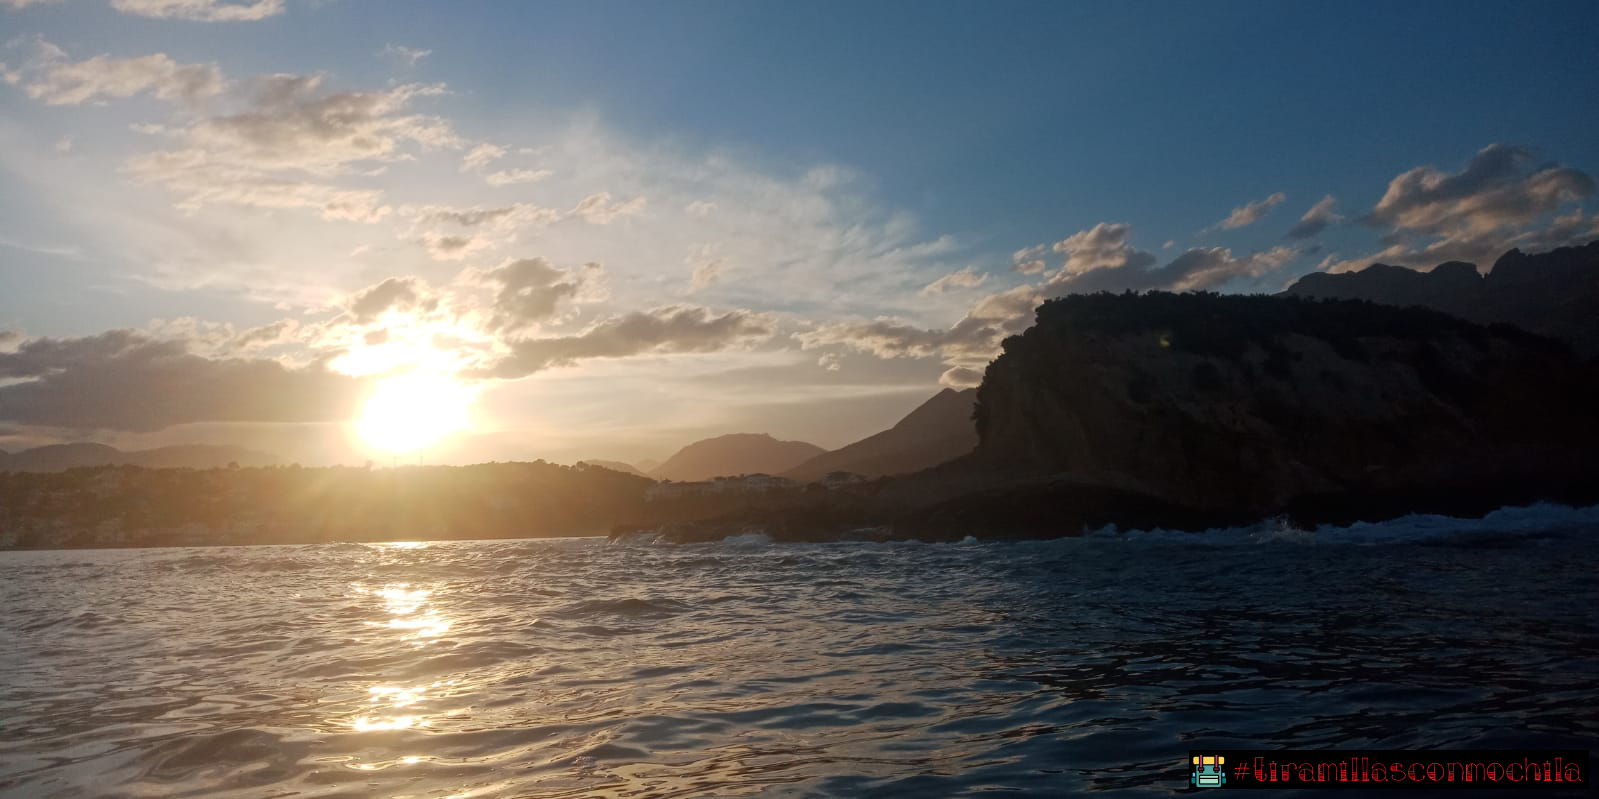
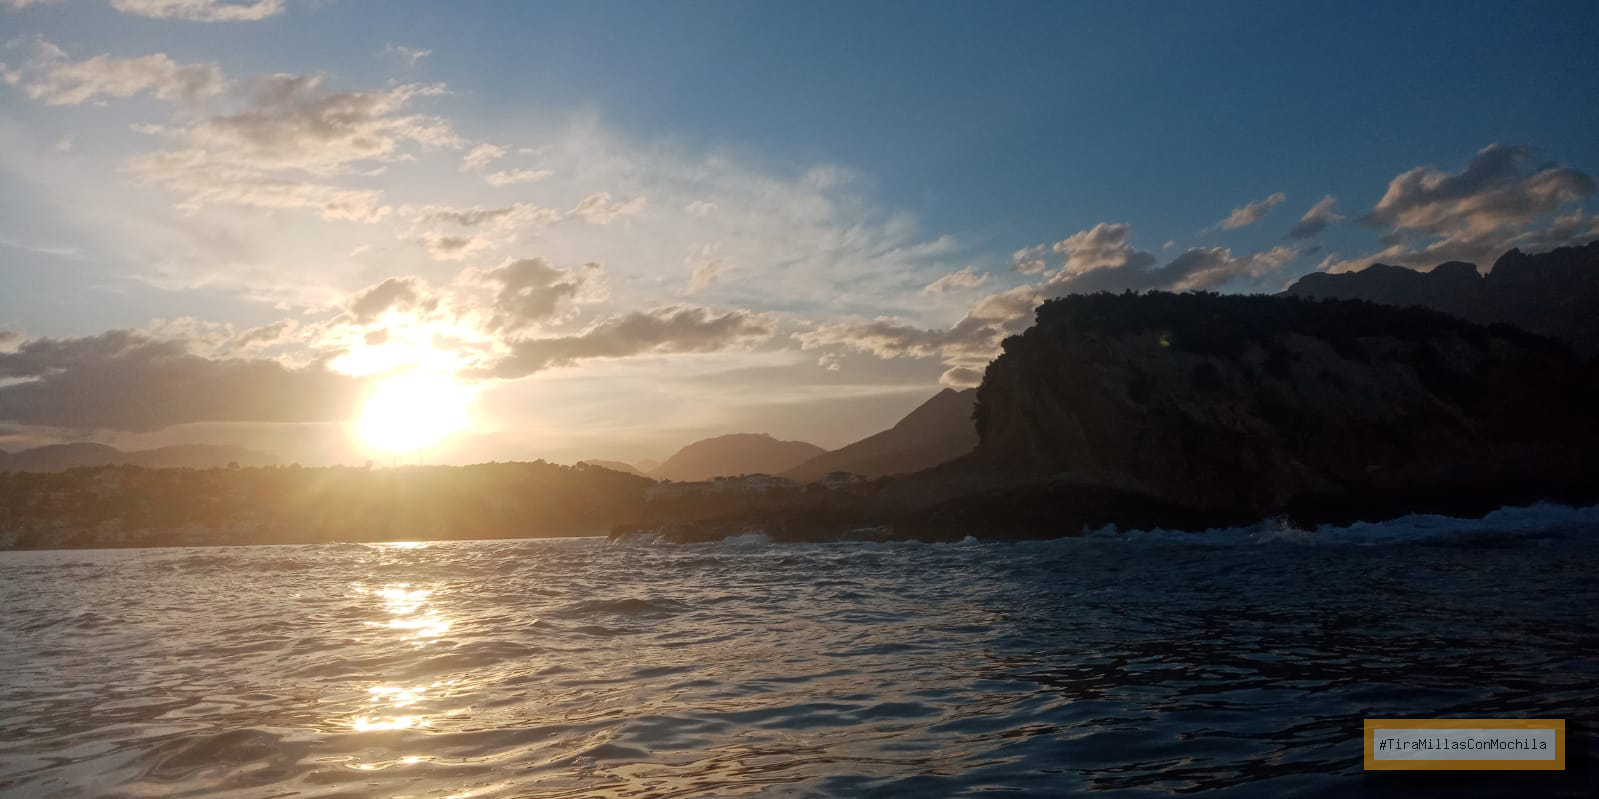
Marca de agua 2 conseguida!!

Changed region(s): [[0.7355, 0.9011, 0.9806, 0.9912]]

diff --git a/ud06ejer01/05/con_texto/logoImagen.php b/ud06ejer01/05/con_texto/logoImagen.php
@@ -1,19 +1,13 @@
 <?php
-    //Primero le cambiamos el tamaño al logo porque es enorme: 
-    // Creamos una imagen cargándola desde el archivo gif
-    $estampa_org = imagecreatefrompng('logo_TMCM.png');
+    //Primero vamos a crear la estampa: 
+    $estampa = imagecreatetruecolor(225, 70);
 
-    // Obtenemos el tercio de las dimensiones de la imagen origen
-    $ancho_dst = intval(imagesx($estampa_org)/2);
-    $alto_dst = intval(imagesy($estampa_org)/2);
+    // dibuja un rectangulo con relleno
+    imagefilledrectangle($estampa, 0, 0, 200, 50, 0xF4A41A);
+    imagefilledrectangle($estampa, 10, 10, 190, 40, 0xEDFAFC);
 
-    // Creamos un lienzo para la imagen destino con las dimensiones calculadas
-    $estampa_dst = imagecreatetruecolor($ancho_dst, $alto_dst);
-
-    /* Escalamos la imagen gif origen sobre la imagen nueva destino especificando
-    punto de inicio para destino y origen, y punto final para destino y origen. */
-    imagecopyresampled($estampa_dst, $estampa_org, 0, 0, 0, 0,
-    $ancho_dst, $alto_dst, imagesx($estampa_org), imagesy($estampa_org));
+    //dibuja un texto horizontal
+    imagestring($estampa, 4, 15, 17, '#TiraMillasConMochila', 0x03171A); 
 
     // Cargar la estampa y la foto para aplicarle la marca de agua
     $img = imagecreatefromjpeg('fotoMar.jpg');
@@ -23,17 +17,18 @@
     $margen_inf = 10;
 
     // obtener el alto/ancho de la imagen de la estampa
-    $sx = imagesx($estampa_dst);
-    $sy = imagesy($estampa_dst);
+    $sx = imagesx($estampa);
+    $sy = imagesy($estampa);
+
+    imagecopymerge($img, $estampa, imagesx($img) - $sx - $margen_dcho, imagesy($img) - $sy - $margen_inf,
+                0, 0, imagesx($estampa), imagesy($estampa), 50);
 
     // Copiar la imagen de la estampa sobre nuestra foto usando los índices de
     // márgen y el ancho de la foto para calcular la posición de la estampa.
-    imagecopy($img, $estampa_dst, imagesx($img) - $sx - $margen_dcho , imagesy($img) - $sy - $margen_inf, 0, 0, 
-            imagesx($estampa_dst), imagesy($estampa_dst));
+    // imagecopy($img, $estampa_dst, imagesx($img) - $sx - $margen_dcho , imagesy($img) - $sy - $margen_inf, 0, 0, 
+    //         imagesx($estampa_dst), imagesy($estampa_dst));
 
-    // Imprimir y mostrar    // Damos salida a la imagen final cambiando el formato a png
-    // header("Content-type: image/png");
-    // imagepng($estampa_dst);
+    // Imprimir y mostrar 
     header('Content-type: image/png');
     imagepng($img);
 
@@ -42,6 +37,5 @@
 
     // Liberar memoria
     imagedestroy($img);
-    imagedestroy($estampa_org);
-    imagedestroy($estampa_dst);
+    imagedestroy($estampa);
 ?> 
